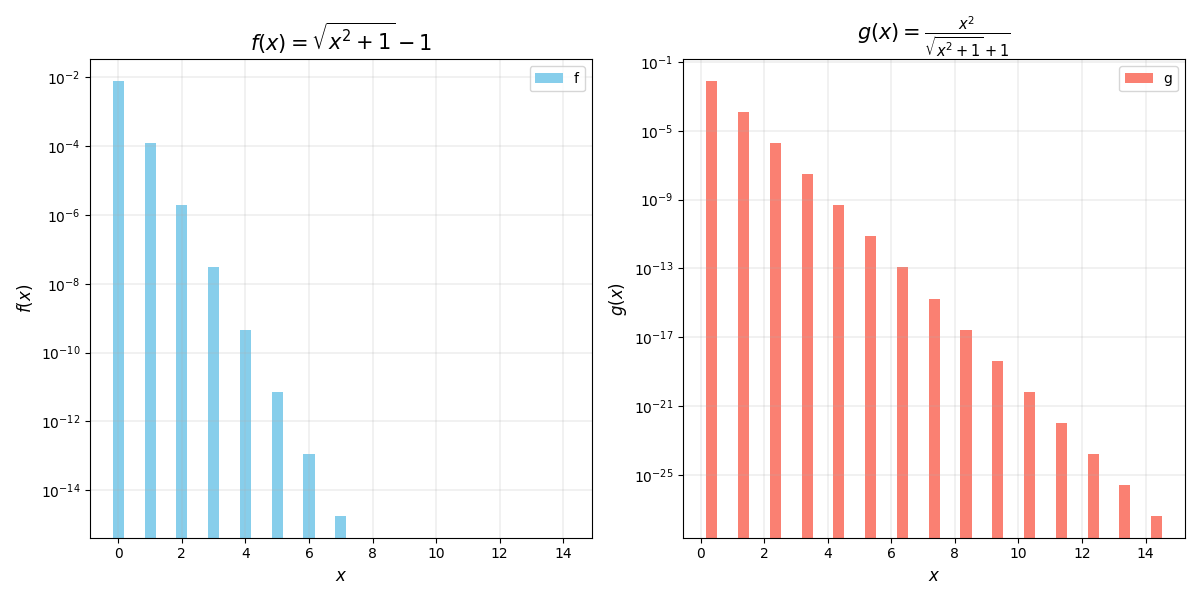
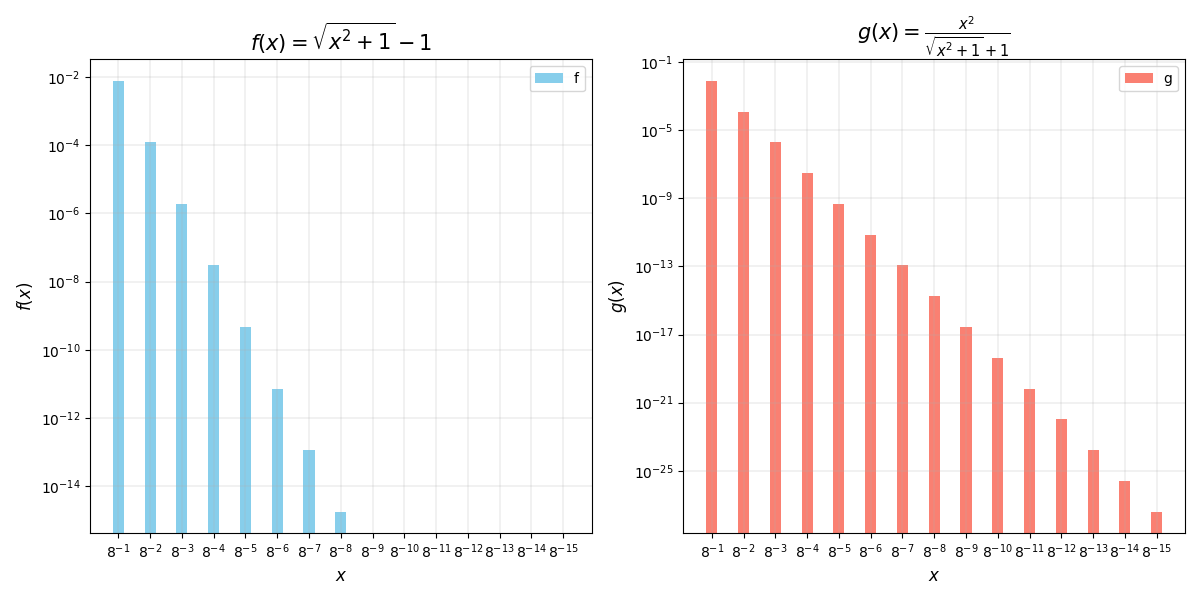
An error with the question2 plot display is fixed.

diff --git a/questions/question2.py b/questions/question2.py
@@ -41,20 +41,23 @@ class question2:
         fig, (f, g) = plt.subplots(1, 2, figsize=(12, 6))
 
         bar_width = 0.35
-        x_axis_f = np.arange(len(x_axis))
-        x_axis_g = x_axis_f + bar_width
+        x_axis = np.arange(len(x_axis))
 
-        f.bar(x_axis_f, self.fResults, color='skyblue', width=bar_width, label='f')
+        f.bar(x_axis, self.fResults, color='skyblue', width=bar_width, label='f')
         f.set_title('$f(x) = \sqrt{x^2 + 1} - 1$', fontsize=15)
         f.set_yscale('log')
         f.set_xlabel('$x$', fontsize=12)
         f.set_ylabel('$f(x)$', fontsize=12)
+        f.set_xticks(x_axis)
+        f.set_xticklabels([f'$8^{{-{i + 1}}}$' for i in range(l)])
 
-        g.bar(x_axis_g, self.gResults, color='salmon', width=bar_width, label='g')
+        g.bar(x_axis, self.gResults, color='salmon', width=bar_width, label='g')
         g.set_title('$g(x) = \\frac{x^2}{\sqrt{x^2 + 1} + 1}$', fontsize=15)
         g.set_yscale('log')
         g.set_xlabel('$x$', fontsize=12)
         g.set_ylabel('$g(x)$', fontsize=12)
+        g.set_xticks(x_axis)
+        g.set_xticklabels([f'$8^{{-{i + 1}}}$' for i in range(l)])
 
         plt.tight_layout()
 
